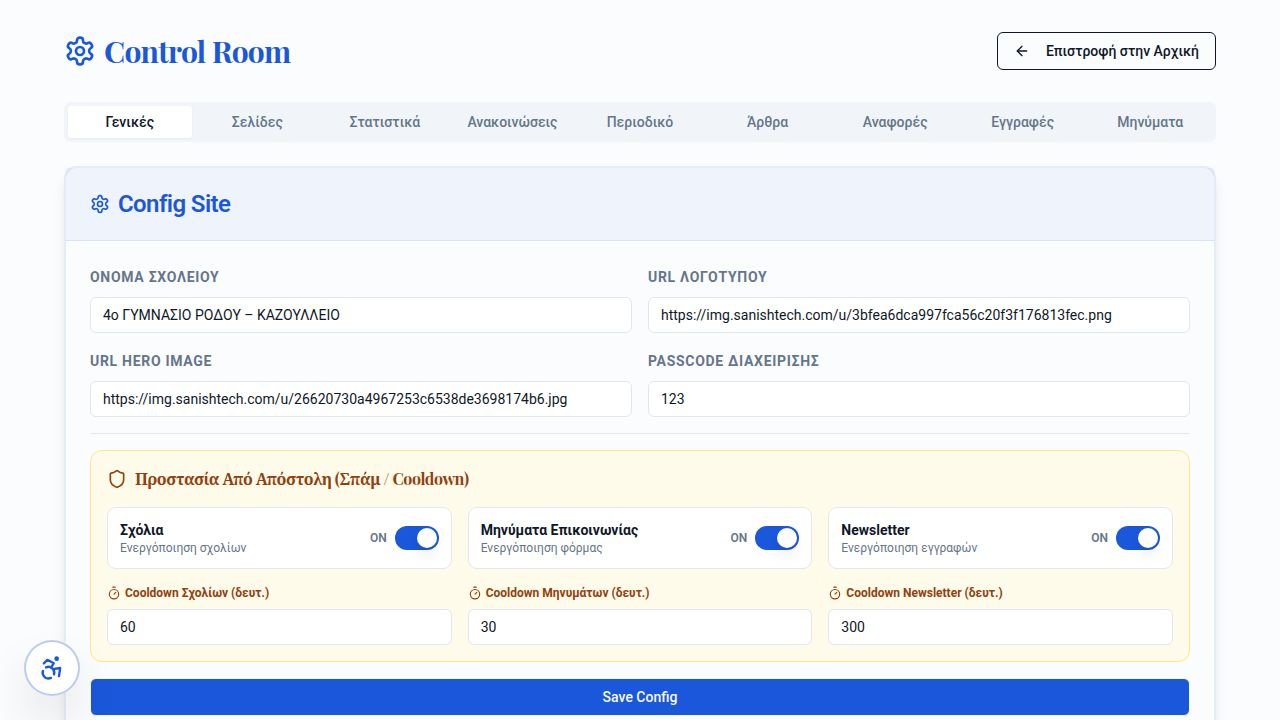
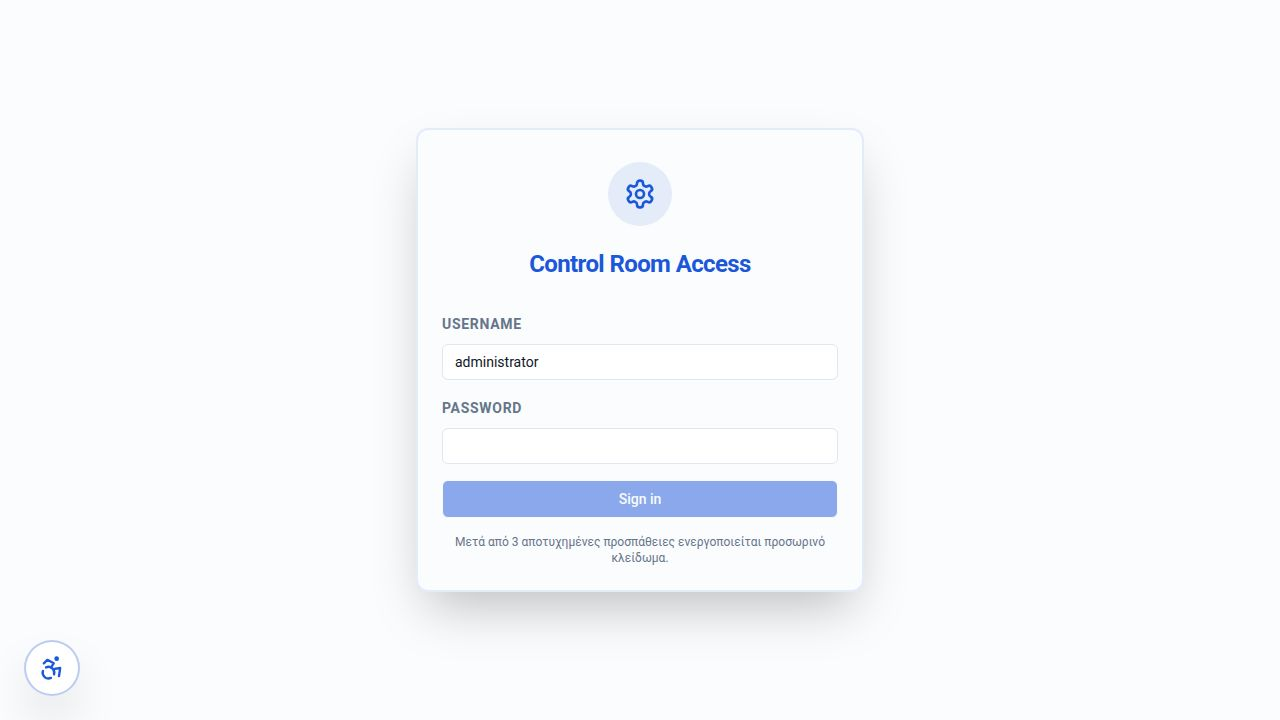
Implement admin dashboard authentication and footer updates
Replit-Commit-Author: Agent

diff --git a/client/src/pages/AdminDashboard.tsx b/client/src/pages/AdminDashboard.tsx
@@ -15,6 +15,7 @@ import { Dialog, DialogContent, DialogHeader, DialogTitle, DialogTrigger } from 
 import { Separator } from "@/components/ui/separator";
 import { Tabs, TabsContent, TabsList, TabsTrigger } from "@/components/ui/tabs";
 import { Announcement, ReportedComment, Subscriber, Contact } from "@shared/schema";
+import { QRCodeSVG } from "qrcode.react";
 
 type AdminUserSummary = {
   id: number;
@@ -270,6 +271,7 @@ export default function AdminDashboard() {
     onSuccess: () => {
       setTwoFactorSetup(null);
       queryClient.invalidateQueries({ queryKey: ["/api/admin/users"] });
+      queryClient.invalidateQueries({ queryKey: ["/api/admin/session"] });
       toast({ title: "Ενεργοποιήθηκε", description: "Η επαλήθευση δύο βημάτων είναι πλέον ενεργή." });
     },
     onError: (error) => toast({ title: "Σφάλμα", description: error.message, variant: "destructive" }),
@@ -280,6 +282,7 @@ export default function AdminDashboard() {
   });
   
   const [editingArticle, setEditingArticle] = useState<any>(null);
+  const [editingAnnouncement, setEditingAnnouncement] = useState<Announcement | null>(null);
   const [newArticleImages, setNewArticleImages] = useState<string[]>([]);
   const [editArticleImages, setEditArticleImages] = useState<string[]>([]);
   const [editDialogOpen, setEditDialogOpen] = useState(false);
@@ -377,6 +380,26 @@ export default function AdminDashboard() {
       queryClient.invalidateQueries({ queryKey: ["/api/announcements"] });
       toast({ title: "Επιτυχία", description: "Η ανακοίνωση διαγράφηκε." });
     },
+  });
+
+  const updateAnnouncement = useMutation({
+    mutationFn: async ({ id, ...values }: { id: number; title: string; content: string }) => {
+      const res = await fetch(`/api/announcements/${id}`, {
+        method: "PATCH",
+        headers: { "Content-Type": "application/json" },
+        credentials: "include",
+        body: JSON.stringify(values),
+      });
+      const body = await res.json().catch(() => ({}));
+      if (!res.ok) throw new Error(body.message || "Αποτυχία ενημέρωσης ανακοίνωσης.");
+      return body;
+    },
+    onSuccess: () => {
+      setEditingAnnouncement(null);
+      queryClient.invalidateQueries({ queryKey: ["/api/announcements"] });
+      toast({ title: "Επιτυχία", description: "Η ανακοίνωση ενημερώθηκε." });
+    },
+    onError: (error) => toast({ title: "Σφάλμα", description: error.message, variant: "destructive" }),
   });
 
   const deleteComment = useMutation({
@@ -718,10 +741,16 @@ export default function AdminDashboard() {
                         </Button>
                       ) : (
                         <div className="space-y-3">
-                          <div className="rounded-lg bg-muted p-3 text-xs break-all">
-                            <strong>Secret:</strong> {twoFactorSetup.secret}
+                          <div className="flex justify-center rounded-xl border bg-white p-4">
+                            <QRCodeSVG value={twoFactorSetup.otpauthUri} size={220} includeMargin level="M" />
                           </div>
-                          <p className="text-xs text-muted-foreground">Προσθέστε το secret στην authenticator app και αποθηκεύστε τους recovery codes:</p>
+                          <p className="text-sm font-semibold text-primary">
+                            Σκανάρετε αυτό το QR με Google Authenticator, Microsoft Authenticator ή άλλη εφαρμογή OTP.
+                          </p>
+                          <div className="rounded-lg bg-muted p-3 text-xs break-all">
+                            <strong>Εναλλακτικά secret:</strong> {twoFactorSetup.secret}
+                          </div>
+                          <p className="text-xs text-muted-foreground">Αποθηκεύστε τους recovery codes σε ασφαλές σημείο πριν επιβεβαιώσετε:</p>
                           <div className="grid grid-cols-2 gap-2 rounded-lg bg-muted p-3 text-xs font-mono">
                             {twoFactorSetup.recoveryCodes.map((code) => <span key={code}>{code}</span>)}
                           </div>
@@ -838,6 +867,36 @@ export default function AdminDashboard() {
                     </form>
                   </DialogContent>
                 </Dialog>
+                <Dialog open={!!editingAnnouncement} onOpenChange={(open) => !open && setEditingAnnouncement(null)}>
+                  <DialogContent className="font-body">
+                    <DialogHeader>
+                      <DialogTitle className="font-display text-primary">Επεξεργασία Ανακοίνωσης</DialogTitle>
+                    </DialogHeader>
+                    {editingAnnouncement && (
+                      <form
+                        className="space-y-4"
+                        onSubmit={(event) => {
+                          event.preventDefault();
+                          const values = Object.fromEntries(new FormData(event.currentTarget)) as { title: string; content: string };
+                          updateAnnouncement.mutate({ id: editingAnnouncement.id, ...values });
+                        }}
+                      >
+                        <div className="space-y-2">
+                          <label className="text-sm font-bold uppercase tracking-wider">Τίτλος</label>
+                          <Input name="title" defaultValue={editingAnnouncement.title} required />
+                        </div>
+                        <div className="space-y-2">
+                          <label className="text-sm font-bold uppercase tracking-wider">Περιεχόμενο</label>
+                          <Textarea name="content" defaultValue={editingAnnouncement.content} required rows={8} />
+                        </div>
+                        <Button type="submit" className="w-full" disabled={updateAnnouncement.isPending}>
+                          {updateAnnouncement.isPending ? <Loader2 className="h-4 w-4 mr-2 animate-spin" /> : null}
+                          Αποθήκευση αλλαγών
+                        </Button>
+                      </form>
+                    )}
+                  </DialogContent>
+                </Dialog>
               </CardHeader>
               <CardContent className="pt-6">
                 <div className="space-y-4">
@@ -847,9 +906,22 @@ export default function AdminDashboard() {
                         <h4 className="font-bold">{ann.title}</h4>
                         <p className="text-xs text-muted-foreground uppercase">{new Date(ann.publishedAt).toLocaleDateString("el-GR")}</p>
                       </div>
-                      <Button variant="ghost" size="icon" className="text-destructive" onClick={() => deleteAnnouncement.mutate(ann.id)}>
-                        <Trash2 className="h-5 w-5" />
-                      </Button>
+                      <div className="flex items-center gap-1">
+                        <Button variant="ghost" size="icon" onClick={() => setEditingAnnouncement(ann)} aria-label={`Επεξεργασία ${ann.title}`}>
+                          <Edit2 className="h-4 w-4" />
+                        </Button>
+                        <Button
+                          variant="ghost"
+                          size="icon"
+                          className="text-destructive"
+                          onClick={() => {
+                            if (window.confirm(`Να διαγραφεί η ανακοίνωση «${ann.title}»;`)) deleteAnnouncement.mutate(ann.id);
+                          }}
+                          aria-label={`Διαγραφή ${ann.title}`}
+                        >
+                          <Trash2 className="h-5 w-5" />
+                        </Button>
+                      </div>
                     </div>
                   ))}
                 </div>
@@ -887,6 +959,23 @@ export default function AdminDashboard() {
                     <div className="space-y-2">
                       <label className="text-sm font-bold uppercase tracking-wider text-muted-foreground">URL Hero Image</label>
                       <Input name="heroImageUrl" defaultValue={settings?.heroImageUrl || ""} placeholder="https://..." />
+                    </div>
+                  </div>
+                  <div className="flex items-center justify-between gap-4 rounded-xl border border-primary/10 bg-primary/5 p-4">
+                    <div>
+                      <p className="font-bold text-primary">Credits δημιουργού</p>
+                      <p className="text-xs text-muted-foreground">Εμφανίζει το “Designed by GioSupremeX” με σύνδεσμο στο GitHub.</p>
+                    </div>
+                    <div className="flex items-center gap-2">
+                      <span className="text-xs font-semibold text-muted-foreground">{settings?.creditsEnabled !== "false" ? "ON" : "OFF"}</span>
+                      <Switch
+                        defaultChecked={settings?.creditsEnabled !== "false"}
+                        onCheckedChange={(checked) => {
+                          const input = document.getElementById("creditsEnabled-hidden") as HTMLInputElement;
+                          if (input) input.value = checked ? "true" : "false";
+                        }}
+                      />
+                      <input type="hidden" id="creditsEnabled-hidden" name="creditsEnabled" defaultValue={settings?.creditsEnabled || "true"} />
                     </div>
                   </div>
                   {/* ── Spam Protection Section ── */}

diff --git a/client/src/components/Footer.tsx b/client/src/components/Footer.tsx
@@ -1,6 +1,7 @@
 import { MapPin, Phone, Mail, Copy, Check, ExternalLink, BookOpen, Calendar, Users, FileText } from "lucide-react";
 import { useSettings } from "@/hooks/use-articles";
-import { useState } from "react";
+import { queryClient } from "@/lib/queryClient";
+import { useRef, useState } from "react";
 import { useToast } from "@/hooks/use-toast";
 
 function CopyableItem({ icon: Icon, text, label }: { icon: any; text: string; label: string }) {
@@ -28,7 +29,10 @@ function CopyableItem({ icon: Icon, text, label }: { icon: any; text: string; la
 }
 
 export function Footer() {
+  const { toast } = useToast();
   const { data: settings } = useSettings();
+  const contextClicks = useRef(0);
+  const [creditsArmed, setCreditsArmed] = useState(false);
   const now = new Date();
   const currentMonth = now.getMonth();
   const currentYear = now.getFullYear();
@@ -47,6 +51,44 @@ export function Footer() {
     { label: "Δραστηριότητες", href: "/activities", icon: Calendar },
     { label: "Μαθητές", href: "/students", icon: Users },
   ];
+
+  const handleCreditsContextMenu = (event: React.MouseEvent) => {
+    event.preventDefault();
+    contextClicks.current += 1;
+    window.setTimeout(() => {
+      contextClicks.current = 0;
+    }, 1600);
+    if (contextClicks.current >= 2) {
+      contextClicks.current = 0;
+      setCreditsArmed(true);
+      toast({ title: "Credits control armed", description: "Κάντε αριστερό κλικ ξανά για έλεγχο διαχειριστή." });
+    }
+  };
+
+  const handleCreditsClick = async (event: React.MouseEvent<HTMLAnchorElement>) => {
+    if (!creditsArmed) return;
+    event.preventDefault();
+    setCreditsArmed(false);
+    const sessionResponse = await fetch("/api/admin/session", { credentials: "include" });
+    const session = await sessionResponse.json().catch(() => ({}));
+    if (!session.authenticated || session.user?.role !== "admin") {
+      toast({ title: "Απαιτείται διαχειριστής", description: "Συνδεθείτε πρώτα στο Control Room για να αλλάξετε τα credits.", variant: "destructive" });
+      return;
+    }
+    const nextValue = settings?.creditsEnabled === "false" ? "true" : "false";
+    const response = await fetch("/api/settings", {
+      method: "PATCH",
+      headers: { "Content-Type": "application/json" },
+      credentials: "include",
+      body: JSON.stringify({ creditsEnabled: nextValue }),
+    });
+    if (!response.ok) {
+      toast({ title: "Αποτυχία", description: "Δεν ήταν δυνατή η αλλαγή των credits.", variant: "destructive" });
+      return;
+    }
+    queryClient.invalidateQueries({ queryKey: ["/api/settings"] });
+    toast({ title: "Ενημερώθηκε", description: nextValue === "true" ? "Τα credits ενεργοποιήθηκαν." : "Τα credits απενεργοποιήθηκαν." });
+  };
 
   return (
     <footer className="bg-gradient-to-r from-primary via-primary/98 to-primary text-primary-foreground mt-auto relative overflow-hidden">
@@ -113,6 +155,19 @@ export function Footer() {
 
         <div className="mt-16 border-t border-white/20 pt-8 text-center text-sm text-primary-foreground/70">
           <p>© {currentYear} {settings?.schoolName || "4ο Γυμνάσιο Ρόδου - Καζούλλειο"} · Σχολικό Έτος {schoolYear}</p>
+          {settings?.creditsEnabled !== "false" && (
+            <a
+              href="https://github.com/GioSupremeX"
+              target="_blank"
+              rel="noopener noreferrer"
+              onContextMenu={handleCreditsContextMenu}
+              onClick={handleCreditsClick}
+              className={`mt-3 inline-flex items-center gap-1 text-xs transition-colors hover:text-white ${creditsArmed ? "text-white underline decoration-dashed underline-offset-4" : ""}`}
+              title={creditsArmed ? "Κάντε αριστερό κλικ για έλεγχο credits" : "Designed by GioSupremeX"}
+            >
+              Designed by <span className="font-semibold">GioSupremeX</span>
+            </a>
+          )}
         </div>
       </div>
     </footer>

diff --git a/server/routes.ts b/server/routes.ts
@@ -425,13 +425,22 @@ export async function registerRoutes(server: Server, app: Express): Promise<void
     res.status(204).end();
   });
 
+  app.patch("/api/announcements/:id", requireAdmin, async (req: Request, res: Response) => {
+    const parsed = announcementPayloadSchema.partial().safeParse(req.body);
+    if (!parsed.success) return res.status(400).json(parsed.error);
+    const announcement = await storage.updateAnnouncement(Number(req.params.id), parsed.data);
+    if (!announcement) return res.status(404).json({ message: "Η ανακοίνωση δεν βρέθηκε." });
+    audit(req, "announcement.updated", { announcementId: announcement.id });
+    res.json(announcement);
+  });
+
   // Settings
   app.get(api.settings.get.path, async (_req: Request, res: Response) => {
     const settings = await storage.getSettings();
     res.json(publicSettings(settings));
   });
 
-  app.patch(api.settings.update.path, requireAdmin, async (req: Request, res: Response) => {
+  app.patch(api.settings.update.path, requireRole("admin"), async (req: Request, res: Response) => {
     const parsed = insertSiteSettingsSchema.partial().safeParse(req.body);
     if (!parsed.success) return res.status(400).json(parsed.error);
     const { adminCode: _ignoredAdminCode, ...update } = parsed.data;

diff --git a/server/storage.ts b/server/storage.ts
@@ -99,6 +99,11 @@ export class DatabaseStorage implements IStorage {
     return created;
   }
 
+  async updateAnnouncement(id: number, update: Partial<InsertAnnouncement>): Promise<Announcement | undefined> {
+    const [updated] = await db.update(announcements).set(update).where(eq(announcements.id, id)).returning();
+    return updated;
+  }
+
   async deleteAnnouncement(id: number): Promise<void> {
     await db.delete(announcements).where(eq(announcements.id, id));
   }
@@ -112,6 +117,7 @@ export class DatabaseStorage implements IStorage {
     const defaults = {
       messagesEnabled: "true",
       subscribeEnabled: "true",
+      creditsEnabled: "true",
       commentCooldown: "60",
       messageCooldown: "60",
       subscribeCooldown: "300",

diff --git a/shared/schema.ts b/shared/schema.ts
@@ -61,6 +61,7 @@ export const siteSettings = pgTable("site_settings", {
   commentsEnabled: text("comments_enabled").notNull().default("true"),
   messagesEnabled: text("messages_enabled").notNull().default("true"),
   subscribeEnabled: text("subscribe_enabled").notNull().default("true"),
+  creditsEnabled: text("credits_enabled").notNull().default("true"),
   commentCooldown: text("comment_cooldown").notNull().default("60"),
   messageCooldown: text("message_cooldown").notNull().default("60"),
   subscribeCooldown: text("subscribe_cooldown").notNull().default("300"),

diff --git a/.agents/memory/admin-authentication.md b/.agents/memory/admin-authentication.md
@@ -1,0 +1,19 @@
+---
+name: Admin authentication
+description: Durable authentication and onboarding decisions for the administrator control room.
+---
+
+Use named administrator accounts rather than a shared passcode. Keep credential
+verification on the server with PostgreSQL-backed sessions, persistent
+escalating lockouts, password hashing, and role checks on every private
+mutation.
+
+**Why:** The original browser-side shared passcode exposed a single credential
+and made lockout state easy to bypass. Separate accounts make revocation,
+auditing, password changes, and 2FA practical.
+
+**How to apply:** Preserve the one-time legacy migration only for existing
+installations; new account and security changes must use the account APIs.
+2FA onboarding should provide a QR otpauth URI plus recovery codes, use the
+SHA-256 TOTP profile consistently, and keep manual secret entry only as a
+fallback.

diff --git a/.agents/memory/MEMORY.md b/.agents/memory/MEMORY.md
@@ -1,0 +1,1 @@
+- [Admin authentication](admin-authentication.md) — named accounts, persistent lockouts, QR-based SHA-256 TOTP, recovery codes, and server-side role enforcement are the security baseline.
